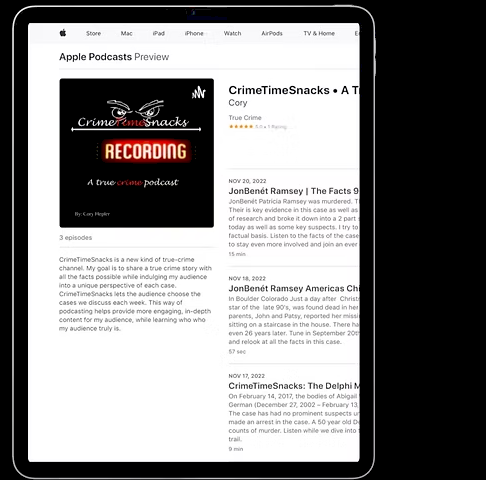
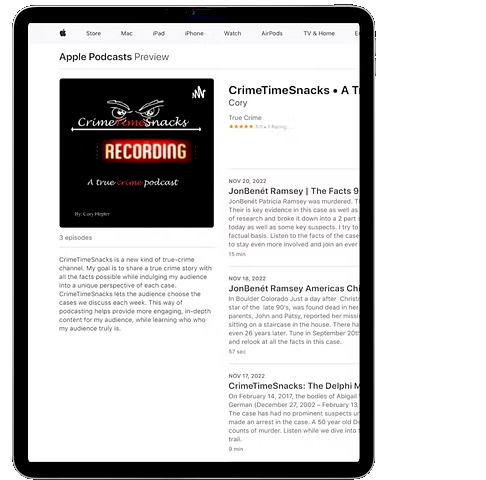
Remove hero device image backdrops

Changed region(s): [[0.0, 0.0, 1.0, 1.0]]

diff --git a/index.html b/index.html
@@ -136,11 +136,11 @@
             </div>
             <div class="hero-visual">
                 <div class="hero-phones">
-                    <img src="/images/phone-left.png?v=2" alt="CrimeTimeSnacks on Apple Podcasts" class="hero-phone hero-phone--side hero-phone--left" loading="eager">
-                    <img src="/images/phone-center.png?v=3" alt="An episode of CrimeTimeSnacks playing on Spotify" class="hero-phone hero-phone--center" loading="eager" fetchpriority="high" decoding="async">
-                    <img src="/images/phone-right.png?v=2" alt="The CrimeTimeSnacks show page on Spotify" class="hero-phone hero-phone--side hero-phone--right" loading="eager">
+                    <img src="/images/phone-left.png?v=3" alt="CrimeTimeSnacks on Apple Podcasts" class="hero-phone hero-phone--side hero-phone--left" loading="eager">
+                    <img src="/images/phone-center.png?v=4" alt="An episode of CrimeTimeSnacks playing on Spotify" class="hero-phone hero-phone--center" loading="eager" fetchpriority="high" decoding="async">
+                    <img src="/images/phone-right.png?v=3" alt="The CrimeTimeSnacks show page on Spotify" class="hero-phone hero-phone--side hero-phone--right" loading="eager">
                 </div>
-                <img src="/images/ipad.png?v=2" alt="CrimeTimeSnacks on Apple Podcasts, shown on iPad" class="hero-ipad" loading="eager"
+                <img src="/images/ipad.png?v=3" alt="CrimeTimeSnacks on Apple Podcasts, shown on iPad" class="hero-ipad" loading="eager"
                      onerror="this.style.display='none';">
             </div>
         </div>

diff --git a/css/style.css b/css/style.css
@@ -588,7 +588,14 @@ header::after {
     will-change: transform;
 }
 
-.hero-phone { height: auto; will-change: transform; filter: drop-shadow(0 30px 44px rgba(0, 0, 0, 0.65)); }
+.hero-phone {
+    height: auto;
+    will-change: transform;
+    /* The source mockups include a solid black matte. Screen blending lets the
+       page backdrop show through that matte without affecting their layout. */
+    mix-blend-mode: screen;
+    filter: drop-shadow(0 30px 44px rgba(0, 0, 0, 0.65));
+}
 
 .hero-phone--side { width: 31%; opacity: 0.97; }
 .hero-phone--left { transform: translateY(16px) rotate(-1.2deg); }
@@ -615,6 +622,7 @@ header::after {
     margin-top: 2rem;
     position: relative;
     z-index: 1;
+    mix-blend-mode: screen;
     filter: drop-shadow(0 26px 40px rgba(0, 0, 0, 0.6));
 }
 
